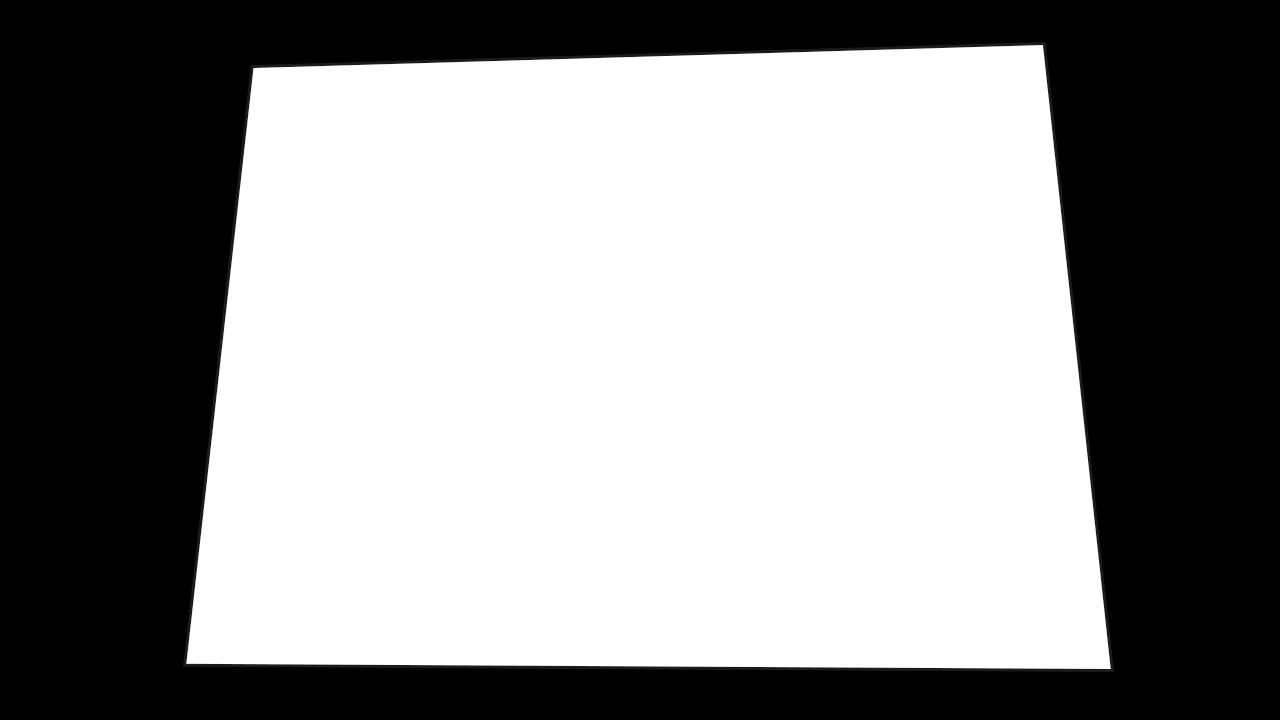
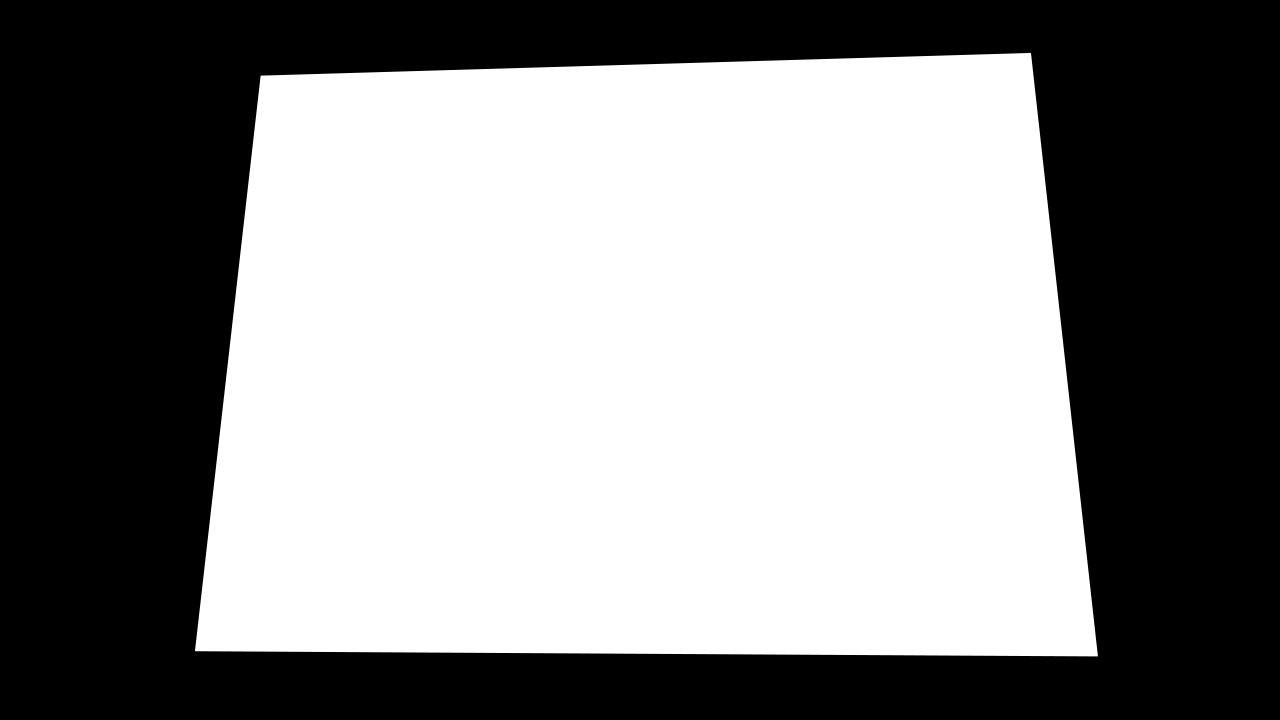
Filter lines on area blob size. New mask

Changed region(s): [[0.125, 0.0611, 0.875, 0.9472]]

diff --git a/MetroGame/MetroGame/Vision.cpp b/MetroGame/MetroGame/Vision.cpp
@@ -67,33 +67,33 @@ void Vision::calibrate()
 	createTrackbar("High Blue", "TrackBars", &high_b, 255, on_high_b_thresh_trackbar);
 
 	setTrackbarPos("Low Hue", "TrackBars", 0);
-	setTrackbarPos("High Hue", "TrackBars", 3);
+	setTrackbarPos("High Hue", "TrackBars", 19);
 	setTrackbarPos("Low Saturation", "TrackBars", 72);
-	setTrackbarPos("High Saturation", "TrackBars", 241);
-	setTrackbarPos("Low Value", "TrackBars", 143);
-	setTrackbarPos("High Value", "TrackBars", 247);
+	setTrackbarPos("High Saturation", "TrackBars", 255);
+	setTrackbarPos("Low Value", "TrackBars", 255);
+	setTrackbarPos("High Value", "TrackBars", 255);
 
 	setTrackbarPos("Low Red", "TrackBars", 232);
 	setTrackbarPos("High Red", "TrackBars", 255);
 	setTrackbarPos("Low Green", "TrackBars", 0);
-	setTrackbarPos("High Green", "TrackBars", 111);
+	setTrackbarPos("High Green", "TrackBars", 101);
 	setTrackbarPos("Low Blue", "TrackBars", 31);
 	setTrackbarPos("High Blue", "TrackBars", 142);
 	redSettings = colourCalibrate();
 
-	setTrackbarPos("Low Hue", "TrackBars", 0); //77
-	setTrackbarPos("High Hue", "TrackBars", 121); //126
-	setTrackbarPos("Low Saturation", "TrackBars", 143); //161
-	setTrackbarPos("High Saturation", "TrackBars", 206); //255
-	setTrackbarPos("Low Value", "TrackBars", 124); //254
-	setTrackbarPos("High Value", "TrackBars", 184); //255
+	setTrackbarPos("Low Hue", "TrackBars", 25); //77
+	setTrackbarPos("High Hue", "TrackBars", 91); //126
+	setTrackbarPos("Low Saturation", "TrackBars", 28); //161
+	setTrackbarPos("High Saturation", "TrackBars", 115); //255
+	setTrackbarPos("Low Value", "TrackBars", 171); //254
+	setTrackbarPos("High Value", "TrackBars", 204); //255
 
-	setTrackbarPos("Low Red", "TrackBars", 232); //0
-	setTrackbarPos("High Red", "TrackBars", 255); //97
-	setTrackbarPos("Low Green", "TrackBars", 144); //235
+	setTrackbarPos("Low Red", "TrackBars", 51); //0
+	setTrackbarPos("High Red", "TrackBars", 98); //97
+	setTrackbarPos("Low Green", "TrackBars", 0); //235
 	setTrackbarPos("High Green", "TrackBars", 255); //255
-	setTrackbarPos("Low Blue", "TrackBars", 113); //188
-	setTrackbarPos("High Blue", "TrackBars", 142); //247
+	setTrackbarPos("Low Blue", "TrackBars", 54); //188
+	setTrackbarPos("High Blue", "TrackBars", 255); //247
 	greenSettings = colourCalibrate();
 
 	setTrackbarPos("Low Hue", "TrackBars", 33);

diff --git a/MetroGame/MetroGame/linedetection.cpp b/MetroGame/MetroGame/linedetection.cpp
@@ -510,7 +510,7 @@ int labelIter(Mat & admin, int row, int col, int blobNr, vector<vector<Point2d *
 	int x = row, y = col;
 	setEntryImage(admin, x, y, blobNr * 10 + 8);
 	vector<Point2d *> points;
-	coords.push_back(points);
+	
 
 	int next1 = -999;
 	int area = 1;
@@ -528,15 +528,15 @@ int labelIter(Mat & admin, int row, int col, int blobNr, vector<vector<Point2d *
 
 			if (next1 >= 0) {
 				setEntryImage(admin, x, y, blobNr * 10 + next1);
-				if (coords[blobNr].size() > 0)
+				if (points.size() > 0)
 				{
-					int xdiff = coords[blobNr][coords[blobNr].size() - 1]->y > x ? coords[blobNr][coords[blobNr].size() - 1]->y - x : x - coords[blobNr][coords[blobNr].size() - 1]->y;
-					int ydiff = coords[blobNr][coords[blobNr].size() - 1]->x > y ? coords[blobNr][coords[blobNr].size() - 1]->x - y : y - coords[blobNr][coords[blobNr].size() - 1]->x;
+					int xdiff = points[points.size() - 1]->y > x ? points[points.size() - 1]->y - x : x - points[points.size() - 1]->y;
+					int ydiff = points[points.size() - 1]->x > y ? points[points.size() - 1]->x - y : y - points[points.size() - 1]->x;
 					if (xdiff > 2 || ydiff > 2)
-						coords[blobNr].push_back(new Point2d(y, x));
+						points.push_back(new Point2d(y, x));
 				}
 				else {
-					coords[blobNr].push_back(new Point2d(y, x));
+					points.push_back(new Point2d(y, x));
 				}
 				area++;
 			}
@@ -557,6 +557,9 @@ int labelIter(Mat & admin, int row, int col, int blobNr, vector<vector<Point2d *
 			} // else
 		}  // while
 	} // while (more)
+	if(area > 500 && area < 10000)
+		coords.push_back(points);
+	std::cout << "Area:" << area << std::endl;
 	return area;
 } // labelIter
 

diff --git a/MetroGame/MetroGame/GameScene3D.cpp b/MetroGame/MetroGame/GameScene3D.cpp
@@ -676,7 +676,7 @@ void GameScene3D::onIdle()
 		camera.height += 5 * deltaTime;
 	}
 
-	cout << "FPS:" << (int)(1 / deltaTime) << endl;
+	
 }
 
 void GameScene3D::onSpecialFunc(int)
